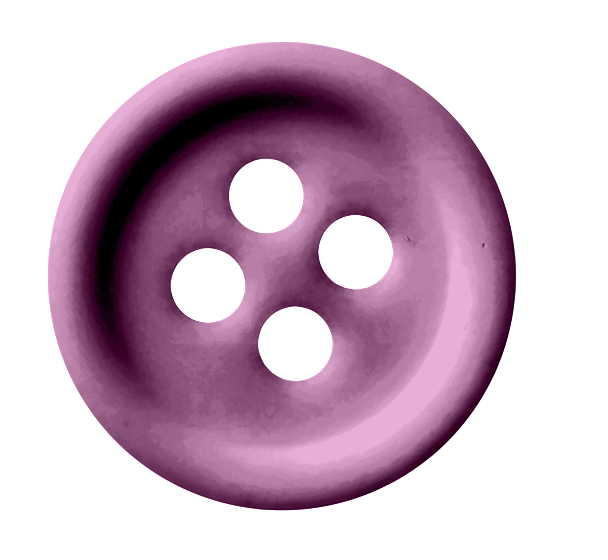
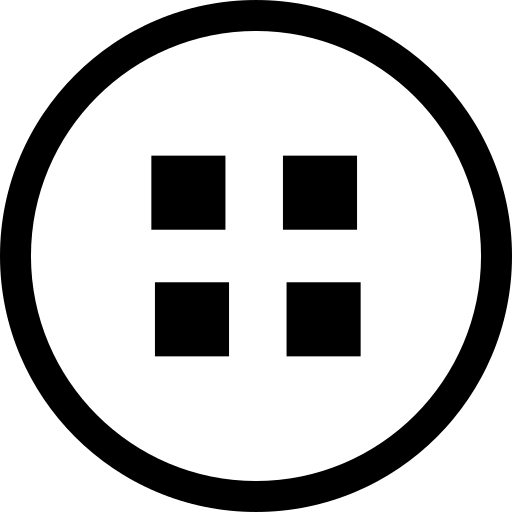
Переделывание MainWindow под задание на 3. Чернышков

diff --git a/DragAndDrop_Chernyshkov/MainWindow.xaml b/DragAndDrop_Chernyshkov/MainWindow.xaml
@@ -5,13 +5,89 @@
         xmlns:mc="http://schemas.openxmlformats.org/markup-compatibility/2006"
         xmlns:local="clr-namespace:DragAndDrop_Chernyshkov"
         mc:Ignorable="d"
-        Title="MainWindow" 
-        MinHeight="450" 
-        MinWidth="800"
-        Height="450" 
-        Width="800"
-        MouseUp="ImageUp">
-    <Grid MouseUp="ImageUp">
-        <Image MouseUp="ImageUp" MouseDown="ImageDown" Width="100" Height="100" VerticalAlignment="top" HorizontalAlignment="left" Source="/Images/ic.png"/>
+        Title="DragAndDrop"
+        MinHeight="520"
+        MinWidth="900"
+        Height="520"
+        Width="900"
+        MouseUp="image_MouseUp">
+    <Grid Background="#E9E9E9">
+        <Grid.RowDefinitions>
+            <RowDefinition Height="60"/>
+            <RowDefinition Height="*"/>
+            <RowDefinition Height="80"/>
+        </Grid.RowDefinitions>
+
+        <Grid Grid.Row="0">
+            <Grid.ColumnDefinitions>
+                <ColumnDefinition Width="*"/>
+                <ColumnDefinition Width="*"/>
+                <ColumnDefinition Width="*"/>
+            </Grid.ColumnDefinitions>
+
+            <StackPanel Grid.Column="0" VerticalAlignment="Center">
+                <TextBlock Text="Реальный размер" HorizontalAlignment="Center" FontWeight="Bold"/>
+                <TextBlock x:Name="tbRealSize" Text="0 x 0" HorizontalAlignment="Center"/>
+            </StackPanel>
+
+            <StackPanel Grid.Column="1" VerticalAlignment="Center">
+                <TextBlock Text="В масштабе" HorizontalAlignment="Center" FontWeight="Bold"/>
+                <TextBlock x:Name="tbScaleSize" Text="0 x 0" HorizontalAlignment="Center"/>
+            </StackPanel>
+
+            <StackPanel Grid.Column="2" VerticalAlignment="Center">
+                <TextBlock Text="Получится на выходе" HorizontalAlignment="Center" FontWeight="Bold"/>
+                <TextBlock x:Name="tbCropSize" Text="250 x 280" HorizontalAlignment="Center"/>
+            </StackPanel>
+        </Grid>
+
+        <Border Grid.Row="1" Margin="15" BorderBrush="#4B4B4B" BorderThickness="8" CornerRadius="8" Background="#9B9B9B">
+            <Canvas x:Name="canvasArea" ClipToBounds="True" MouseUp="image_MouseUp">
+                <Image x:Name="image"
+                       Canvas.Left="300"
+                       Canvas.Top="60"
+                       Width="318"
+                       Height="350"
+                       MouseDown="image_MouseDown"
+                       MouseUp="image_MouseUp"
+                       Source="pack://application:,,,/DragAndDrop_Chernyshkov;component/Images/ic.png"/>
+
+                <Border x:Name="cropFrame"
+                        Canvas.Left="323"
+                        Canvas.Top="80"
+                        Width="250"
+                        Height="280"
+                        BorderBrush="#4AA3FF"
+                        BorderThickness="2"
+                        IsHitTestVisible="False"/>
+            </Canvas>
+        </Border>
+
+        <Grid Grid.Row="2" Margin="15,0,15,10">
+            <Grid.ColumnDefinitions>
+                <ColumnDefinition Width="*"/>
+                <ColumnDefinition Width="*"/>
+            </Grid.ColumnDefinitions>
+
+            <Button x:Name="bthClear"
+                    Grid.Column="0"
+                    Margin="100,10,20,10"
+                    Content="ОЧИСТИТЬ"
+                    FontSize="26"
+                    Foreground="White"
+                    Background="#FF8E00"
+                    BorderBrush="#C56C00"
+                    Click="ClearImage"/>
+
+            <Button x:Name="bthCrop"
+                    Grid.Column="1"
+                    Margin="20,10,100,10"
+                    Content="ОБРЕЗАТЬ"
+                    FontSize="26"
+                    Foreground="White"
+                    Background="#37A700"
+                    BorderBrush="#2A8000"
+                    Click="CropImage"/>
+        </Grid>
     </Grid>
 </Window>

diff --git a/DragAndDrop_Chernyshkov/MainWindow.xaml.cs b/DragAndDrop_Chernyshkov/MainWindow.xaml.cs
@@ -1,15 +1,7 @@
-using System.Text;
-using System.Windows;
-using System.Windows.Controls;
-using System.Windows.Data;
-using System.Windows.Documents;
+using System.Windows;
 using System.Windows.Input;
-using System.Windows.Media;
 using System.Windows.Media.Imaging;
-using System.Windows.Navigation;
-using System.Windows.Shapes;
 using System.Windows.Threading;
-using static System.Net.Mime.MediaTypeNames;
 
 namespace DragAndDrop_Chernyshkov
 {
@@ -18,29 +10,72 @@ namespace DragAndDrop_Chernyshkov
     /// </summary>
     public partial class MainWindow : Window
     {
-
         public DispatcherTimer dispatcherTimer = new DispatcherTimer();
+        private bool isDrag = false;
+        private Point deltaPoint;
+        private double startLeft = 300;
+        private double startTop = 60;
+        private double startWidth = 318;
+        private double startHeight = 350;
+
         public MainWindow()
         {
             InitializeComponent();
 
-            dispatcherTimer.Tick += DispatcherTimer_Tick; // вызываем функцию по истечению таймера
-            dispatcherTimer.Interval = new System.TimeSpan(0, 0, 0, 0, 1000 / 60); // задаём интервал (60 кадрров).
+            dispatcherTimer.Tick += DispatcherTimer_Tick;
+            dispatcherTimer.Interval = new TimeSpan(0, 0, 0, 0, 1000 / 60);
+
+            ShowSizeText();
         }
 
         private void DispatcherTimer_Tick(object? sender, EventArgs e)
         {
-            image.Margin = new Thickness(Mouse.GetPosition(this).X - 25, Mouse.GetPosition(this).Y - 25, 0, 0);
+            if (!isDrag) return;
+
+            Point position = Mouse.GetPosition(canvasArea);
+            Canvas.SetLeft(image, position.X - deltaPoint.X);
+            Canvas.SetTop(image, position.Y - deltaPoint.Y);
         }
 
         private void image_MouseUp(object sender, System.Windows.Input.MouseButtonEventArgs e)
         {
+            isDrag = false;
             dispatcherTimer.Stop();
+            image.ReleaseMouseCapture();
+            ShowSizeText();
         }
 
         private void image_MouseDown(object sender, System.Windows.Input.MouseButtonEventArgs e)
         {
+            isDrag = true;
+
+            Point mousePosition = e.GetPosition(canvasArea);
+            deltaPoint.X = mousePosition.X - Canvas.GetLeft(image);
+            deltaPoint.Y = mousePosition.Y - Canvas.GetTop(image);
+
+            image.CaptureMouse();
             dispatcherTimer.Start();
+        }
+
+        private void ShowSizeText()
+        {
+            tbRealSize.Text = ((int)startWidth).ToString() + " x " + ((int)startHeight).ToString();
+            tbScaleSize.Text = ((int)image.Width).ToString() + " x " + ((int)image.Height).ToString();
+            tbCropSize.Text = ((int)cropFrame.Width).ToString() + " x " + ((int)cropFrame.Height).ToString();
+        }
+
+        private void ClearImage(object sender, RoutedEventArgs e)
+        {
+            image.Width = startWidth;
+            image.Height = startHeight;
+            Canvas.SetLeft(image, startLeft);
+            Canvas.SetTop(image, startTop);
+            ShowSizeText();
+        }
+
+        private void CropImage(object sender, RoutedEventArgs e)
+        {
+            MessageBox.Show("Следующий шаг: реализовать обрезку.");
         }
     }
 }
